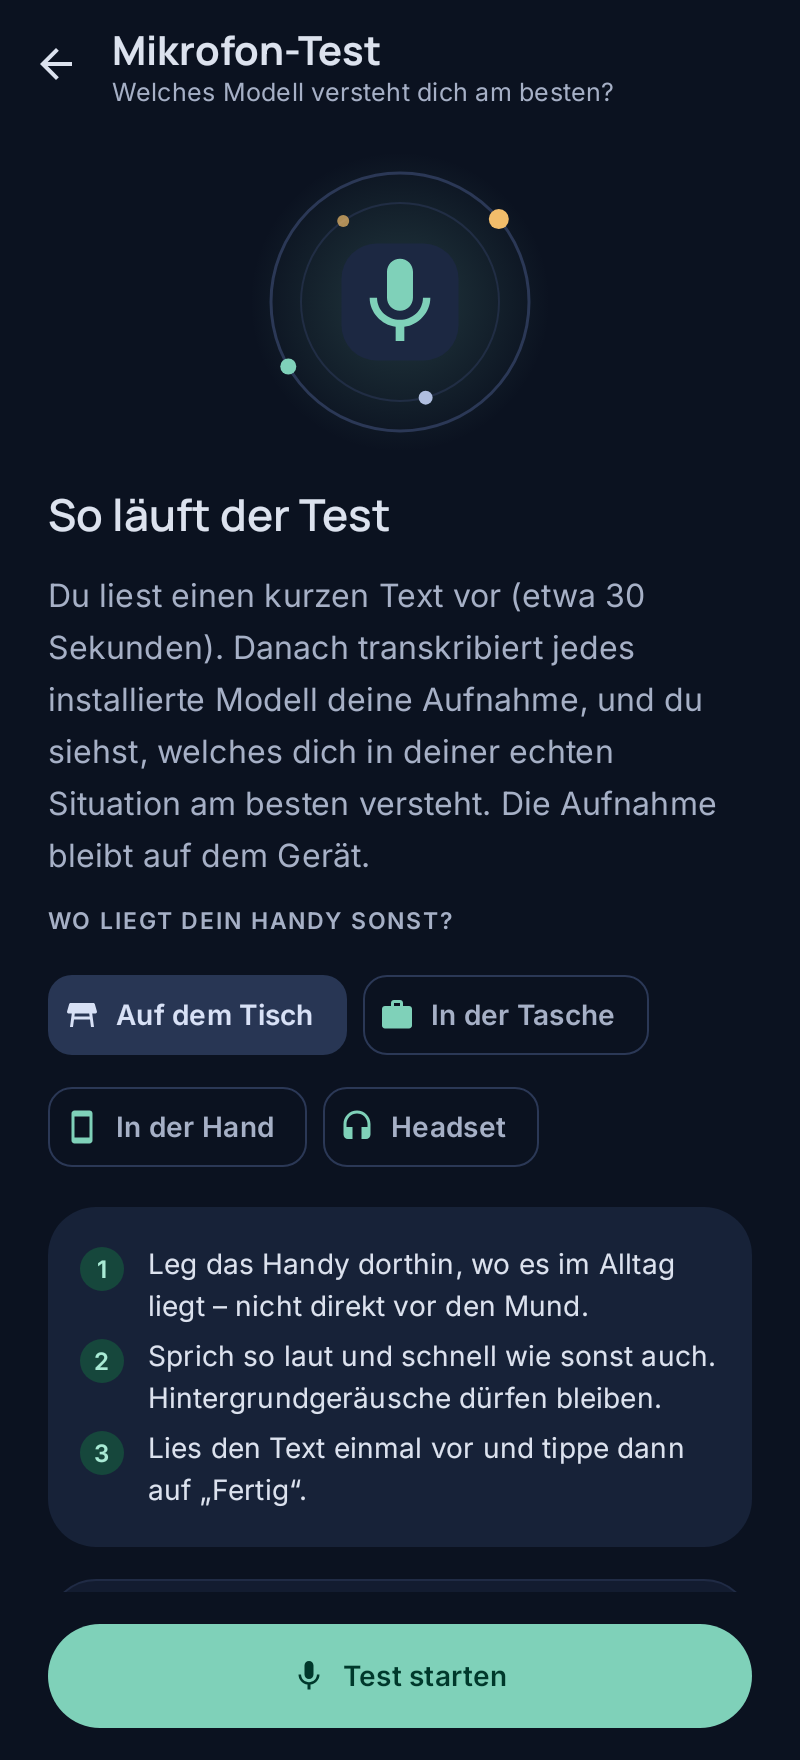
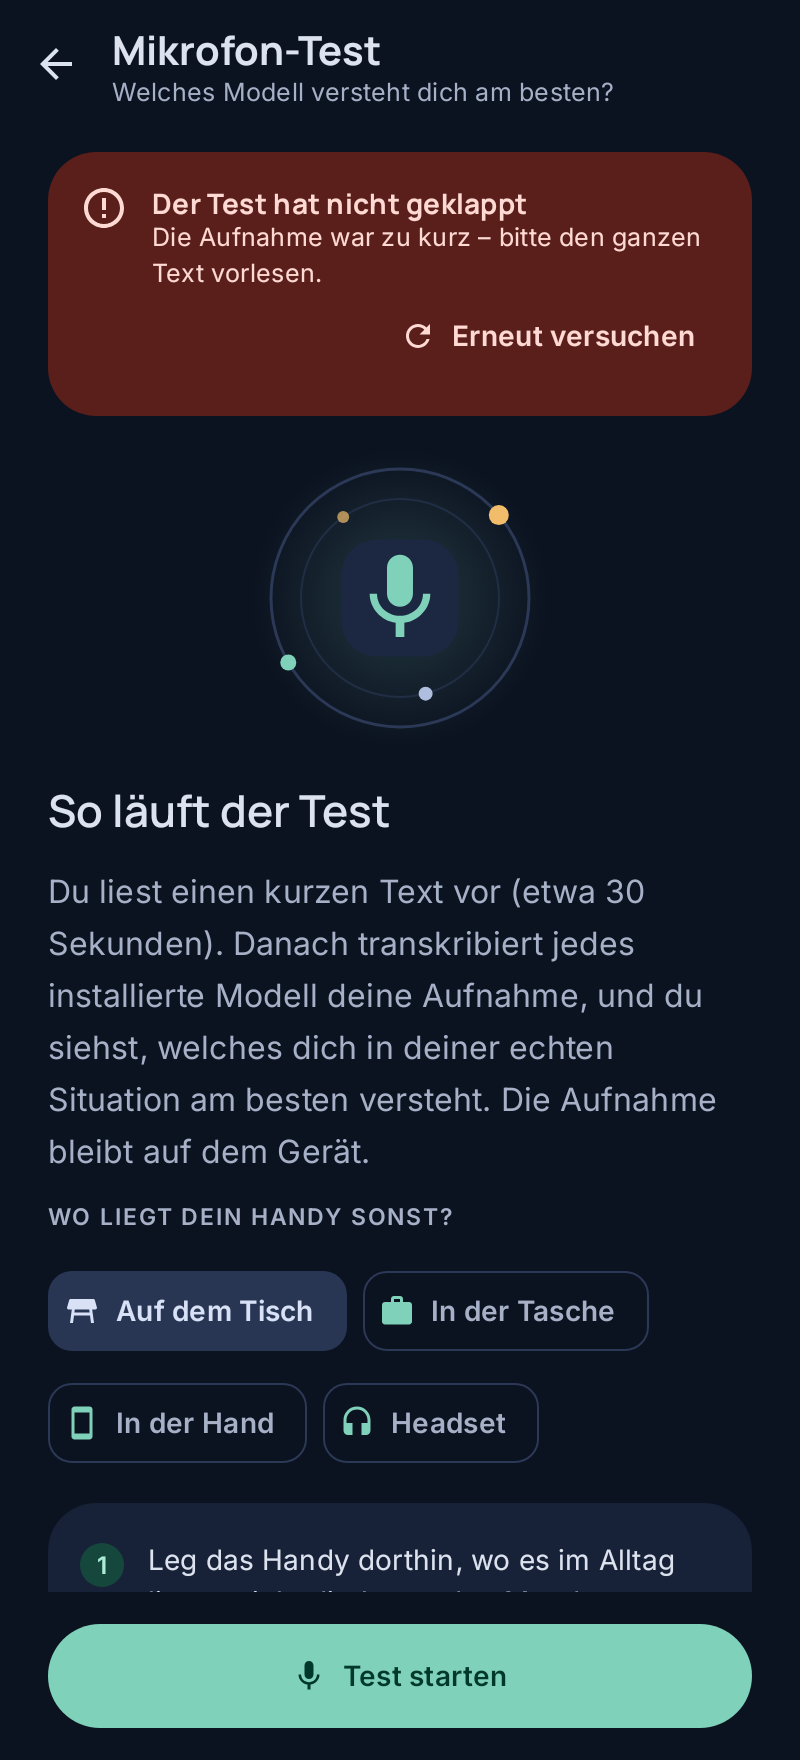
Mikrofon-Test: Fehlerkarte, Hinweis „Stille verwerfen“, Zurück-Navigation zum Jetzt-Tab
- Fehler des letzten Versuchs als Fehlerkarte mit „Erneut versuchen“ (Einleitung)
- silenceCutHint als dezente Info-Karte mit Tipp über dem Ergebnis
- Aus dem Jetzt-Tab geöffneter Test führt mit Zurück (Pfeil und System-Zurück) wieder in den
  Jetzt-Tab, aus der Spracherkennungs-Seite geöffneter Test zurück zur Seite
- Ungenutzten String mictest_text entfernt; Screenshots 10-mikrofontest-* aktualisiert

Claude-Session: https://claude.ai/code/session_016kKsydFZUPf2mxGSAngiK9

diff --git a/app/src/main/java/de/open2ndbrain/ui/mictest/MicTestScreen.kt b/app/src/main/java/de/open2ndbrain/ui/mictest/MicTestScreen.kt
@@ -35,6 +35,10 @@ import androidx.compose.foundation.verticalScroll
 import androidx.compose.material.icons.Icons
 import androidx.compose.material.icons.filled.CheckCircle
 import androidx.compose.material.icons.filled.EmojiEvents
+import androidx.compose.material.icons.filled.ErrorOutline
+import androidx.compose.material.icons.filled.Info
+import androidx.compose.material.icons.filled.Lightbulb
+import androidx.compose.material.icons.filled.Refresh
 import androidx.compose.material.icons.filled.ExpandLess
 import androidx.compose.material.icons.filled.ExpandMore
 import androidx.compose.material.icons.filled.Headset
@@ -174,7 +178,16 @@ object MicTestGrades {
 
 /** Mikrofon-Test: Erklärung → Vorlesen → Auswertung → Ergebnis. */
 @Composable
-fun MicTestContent(ui: MicTestUi, actions: MicTestActions, onBack: () -> Unit, modifier: Modifier = Modifier) {
+fun MicTestContent(
+    ui: MicTestUi,
+    actions: MicTestActions,
+    onBack: () -> Unit,
+    modifier: Modifier = Modifier,
+    /** Fehlermeldung des letzten Versuchs (Fehlerkarte mit „Erneut versuchen“); null = keiner. */
+    error: String? = null,
+    /** „Stille verwerfen“ hat vermutlich Teile der Aufnahme abgeschnitten (Info-Karte im Ergebnis). */
+    silenceCutHint: Boolean = false,
+) {
     Column(modifier.fillMaxSize()) {
         DetailTopBar(stringResource(R.string.mictest_title), onBack = onBack, subtitle = stringResource(R.string.mictest_subtitle))
         AnimatedContent(
@@ -185,10 +198,10 @@ fun MicTestContent(ui: MicTestUi, actions: MicTestActions, onBack: () -> Unit, m
             modifier = Modifier.weight(1f),
         ) { s ->
             when (s) {
-                is MicTestUi.Intro -> IntroStep(s, actions)
+                is MicTestUi.Intro -> IntroStep(s, actions, error)
                 is MicTestUi.Reading -> ReadingStep(s, actions)
                 is MicTestUi.Evaluating -> EvaluatingStep(s, actions)
-                is MicTestUi.Result -> ResultStep(s, actions)
+                is MicTestUi.Result -> ResultStep(s, actions, silenceCutHint)
             }
         }
     }
@@ -219,7 +232,7 @@ private fun StepColumn(bottom: @Composable ColumnScope.() -> Unit, content: @Com
 
 @OptIn(ExperimentalLayoutApi::class)
 @Composable
-private fun IntroStep(s: MicTestUi.Intro, actions: MicTestActions) {
+private fun IntroStep(s: MicTestUi.Intro, actions: MicTestActions, error: String?) {
     StepColumn(bottom = {
         Button(onClick = actions.onStart, modifier = Modifier.fillMaxWidth().heightIn(min = 52.dp)) {
             Icon(Icons.Filled.Mic, contentDescription = null, modifier = Modifier.size(18.dp))
@@ -227,6 +240,7 @@ private fun IntroStep(s: MicTestUi.Intro, actions: MicTestActions) {
             Text(stringResource(R.string.mictest_start))
         }
     }) {
+        if (error != null) ErrorCard(error, onRetry = actions.onStart)
         SpotIllustration(Illustration.Microphone, Modifier.size(150.dp).align(Alignment.CenterHorizontally))
         Text(stringResource(R.string.mictest_intro_title), style = MaterialTheme.typography.headlineSmall)
         Text(stringResource(R.string.mictest_intro_text), style = MaterialTheme.typography.bodyLarge, color = MaterialTheme.colorScheme.onSurfaceVariant)
@@ -350,7 +364,7 @@ private fun EvaluatingStep(s: MicTestUi.Evaluating, actions: MicTestActions) {
 }
 
 @Composable
-private fun ResultStep(s: MicTestUi.Result, actions: MicTestActions) {
+private fun ResultStep(s: MicTestUi.Result, actions: MicTestActions, silenceCutHint: Boolean) {
     val sorted = s.results.sortedBy { it.werPct }
     WidthAware(Modifier.fillMaxSize()) { side ->
         LazyColumn(
@@ -368,6 +382,7 @@ private fun ResultStep(s: MicTestUi.Result, actions: MicTestActions) {
                     )
                 }
             }
+            if (silenceCutHint) item(key = "silence") { SilenceCutCard() }
             items(sorted, key = { it.spec.id }) { r ->
                 ResultCard(r, best = r.spec.id == s.bestId, initiallyOpen = r.spec.id == s.openId, onActivate = { actions.onActivate(r.spec.id) })
             }
@@ -552,6 +567,61 @@ private fun GradeChip(grade: Int) {
             .background(color.copy(alpha = 0.15f))
             .padding(horizontal = 8.dp, vertical = 2.dp),
     )
+}
+
+/** Fehlerkarte: was schiefging, und „Erneut versuchen“. */
+@Composable
+private fun ErrorCard(message: String, onRetry: () -> Unit) {
+    O2bCard(
+        Modifier.fillMaxWidth(),
+        color = MaterialTheme.colorScheme.errorContainer,
+        contentColor = MaterialTheme.colorScheme.onErrorContainer,
+        border = null,
+    ) {
+        Row(verticalAlignment = Alignment.Top, modifier = Modifier.semantics(mergeDescendants = true) { liveRegion = LiveRegionMode.Polite }) {
+            Icon(Icons.Filled.ErrorOutline, contentDescription = null)
+            Spacer(Modifier.width(Spacing.sm))
+            Column(Modifier.weight(1f)) {
+                Text(stringResource(R.string.mictest_error_title), style = MaterialTheme.typography.titleSmall)
+                Text(message, style = MaterialTheme.typography.bodySmall)
+            }
+        }
+        Row(Modifier.fillMaxWidth(), horizontalArrangement = Arrangement.End) {
+            TextButton(onClick = onRetry) {
+                Icon(Icons.Filled.Refresh, contentDescription = null, modifier = Modifier.size(18.dp), tint = MaterialTheme.colorScheme.onErrorContainer)
+                Spacer(Modifier.width(Spacing.xs))
+                Text(stringResource(R.string.mictest_retry), color = MaterialTheme.colorScheme.onErrorContainer)
+            }
+        }
+    }
+}
+
+/** Dezenter Hinweis: „Stille verwerfen“ hat Teile abgeschnitten – mit Tipp. */
+@Composable
+private fun SilenceCutCard() {
+    O2bCard(
+        Modifier.fillMaxWidth(),
+        color = MaterialTheme.colorScheme.secondaryContainer.copy(alpha = 0.5f),
+        border = null,
+    ) {
+        Row(verticalAlignment = Alignment.Top) {
+            Icon(Icons.Filled.Info, contentDescription = null, tint = MaterialTheme.colorScheme.secondary, modifier = Modifier.size(20.dp))
+            Spacer(Modifier.width(Spacing.sm))
+            Column(verticalArrangement = Arrangement.spacedBy(Spacing.xxs)) {
+                Text(stringResource(R.string.mictest_silence_title), style = MaterialTheme.typography.titleSmall)
+                Text(stringResource(R.string.mictest_silence_text), style = MaterialTheme.typography.bodySmall)
+                Row(verticalAlignment = Alignment.Top) {
+                    Icon(Icons.Filled.Lightbulb, contentDescription = null, tint = O2bTheme.extra.meeting, modifier = Modifier.size(16.dp))
+                    Spacer(Modifier.width(Spacing.xxs))
+                    Text(
+                        stringResource(R.string.mictest_silence_tip),
+                        style = MaterialTheme.typography.bodySmall,
+                        color = MaterialTheme.colorScheme.onSurfaceVariant,
+                    )
+                }
+            }
+        }
+    }
 }
 
 /** Einstiegskarte „Welches Modell passt zu dir?“ (Jetzt-Tab und Spracherkennungs-Seite). */

diff --git a/app/src/main/java/de/open2ndbrain/ui/settings/SettingsScreen.kt b/app/src/main/java/de/open2ndbrain/ui/settings/SettingsScreen.kt
@@ -89,9 +89,21 @@ fun SettingsScreen(
     onModelsOpened: () -> Unit = {},
     openMicTest: Boolean = false,
     onMicTestOpened: () -> Unit = {},
+    /** Zurück aus einem vom Jetzt-Tab geöffneten Mikrofon-Test (führt wieder dorthin). */
+    onReturnFromMicTest: () -> Unit = {},
     vm: SettingsViewModel = viewModel(),
 ) {
     var page by rememberSaveable { mutableStateOf(SettingsPage.Main) }
+    var micTestFromNow by rememberSaveable { mutableStateOf(false) }
+    fun leaveMicTest() {
+        if (micTestFromNow) {
+            micTestFromNow = false
+            page = SettingsPage.Main
+            onReturnFromMicTest()
+        } else {
+            page = SettingsPage.Models
+        }
+    }
     // Sprung aus dem Jetzt-Tab („Besseres Modell verfügbar“)
     LaunchedEffect(openModels) {
         if (openModels) {
@@ -102,14 +114,15 @@ fun SettingsScreen(
     LaunchedEffect(openMicTest) {
         if (openMicTest) {
             page = SettingsPage.MicTest
+            micTestFromNow = true
             onMicTestOpened()
         }
     }
-    BackHandler(enabled = page != SettingsPage.Main) { page = if (page == SettingsPage.MicTest) SettingsPage.Models else SettingsPage.Main }
+    BackHandler(enabled = page != SettingsPage.Main) { if (page == SettingsPage.MicTest) leaveMicTest() else page = SettingsPage.Main }
     when (page) {
         SettingsPage.Licenses -> LicensesScreen(onBack = { page = SettingsPage.Main }, modifier = modifier)
         SettingsPage.Models -> AsrModelsScreen(onBack = { page = SettingsPage.Main }, modifier = modifier, onMicTest = { page = SettingsPage.MicTest })
-        SettingsPage.MicTest -> de.open2ndbrain.ui.mictest.MicTestScreen(onBack = { page = SettingsPage.Models }, modifier = modifier)
+        SettingsPage.MicTest -> de.open2ndbrain.ui.mictest.MicTestScreen(onBack = ::leaveMicTest, modifier = modifier)
         SettingsPage.Main -> SettingsMain(modifier, vm, onOpen = { page = it })
     }
 }

diff --git a/app/src/test/java/de/open2ndbrain/screenshots/ScreensScreenshotTest.kt b/app/src/test/java/de/open2ndbrain/screenshots/ScreensScreenshotTest.kt
@@ -198,12 +198,15 @@ class ScreensScreenshotTest {
     )
 
     @Test fun mikrofonTestEinleitung() = compose.snapshot("10-mikrofontest-1-einleitung", dark = true) {
-        MicTestContent(MicTestUi.Intro(MicSituation.Table, history), MicTestActions(), onBack = {})
+        MicTestContent(
+            MicTestUi.Intro(MicSituation.Table, history), MicTestActions(), onBack = {},
+            error = "Die Aufnahme war zu kurz – bitte den ganzen Text vorlesen.",
+        )
     }
 
     @Test fun mikrofonTestLesen() = compose.snapshot("10-mikrofontest-2-lesen", dark = false) {
         MicTestContent(
-            MicTestUi.Reading(androidx.compose.ui.res.stringResource(de.open2ndbrain.R.string.mictest_text), 14_000, 0.62f, true),
+            MicTestUi.Reading(androidx.compose.ui.res.stringResource(de.open2ndbrain.R.string.mic_test_text_1), 14_000, 0.62f, true),
             MicTestActions(), onBack = {},
         )
     }
@@ -234,6 +237,7 @@ class ScreensScreenshotTest {
                 openId = ModelCatalog.DE_FASTCONFORMER.id,
             ),
             MicTestActions(), onBack = {},
+            silenceCutHint = true,
         )
     }
 

diff --git a/app/src/main/java/de/open2ndbrain/ui/mictest/MicTestRoute.kt b/app/src/main/java/de/open2ndbrain/ui/mictest/MicTestRoute.kt
@@ -14,9 +14,11 @@ import androidx.lifecycle.viewmodel.compose.viewModel
 @Composable
 fun MicTestScreen(onBack: () -> Unit, modifier: Modifier = Modifier, vm: MicTestViewModel = viewModel()) {
     val ui by vm.ui.collectAsStateWithLifecycle()
+    val error by vm.error.collectAsStateWithLifecycle()
+    val silenceCutHint by vm.silenceCutHint.collectAsStateWithLifecycle()
     val micLauncher = rememberLauncherForActivityResult(ActivityResultContracts.RequestPermission()) { granted ->
         if (granted) vm.start()
     }
     val actions = remember(vm) { vm.actions(onStartFailed = { micLauncher.launch(Manifest.permission.RECORD_AUDIO) }) }
-    MicTestContent(ui = ui, actions = actions, onBack = onBack, modifier = modifier)
+    MicTestContent(ui = ui, actions = actions, onBack = onBack, modifier = modifier, error = error, silenceCutHint = silenceCutHint)
 }

diff --git a/app/src/main/java/de/open2ndbrain/ui/MainActivity.kt b/app/src/main/java/de/open2ndbrain/ui/MainActivity.kt
@@ -201,6 +201,7 @@ private fun TabContent(
                 onModelsOpened = onModelsOpened,
                 openMicTest = openMicTest,
                 onMicTestOpened = onMicTestOpened,
+                onReturnFromMicTest = { onSelect(Tab.Now) },
             )
         }
     }
